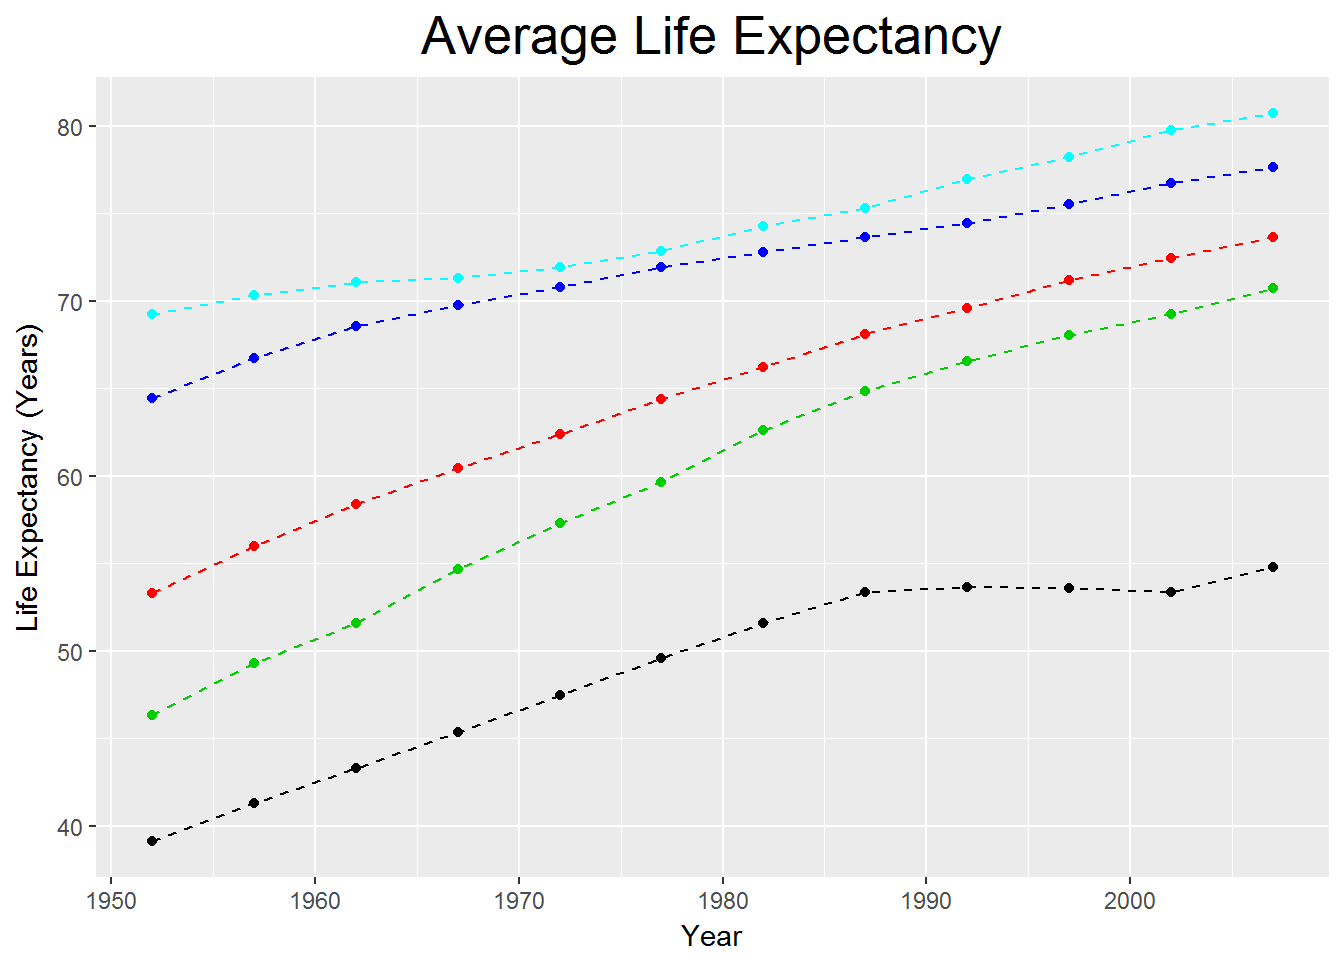
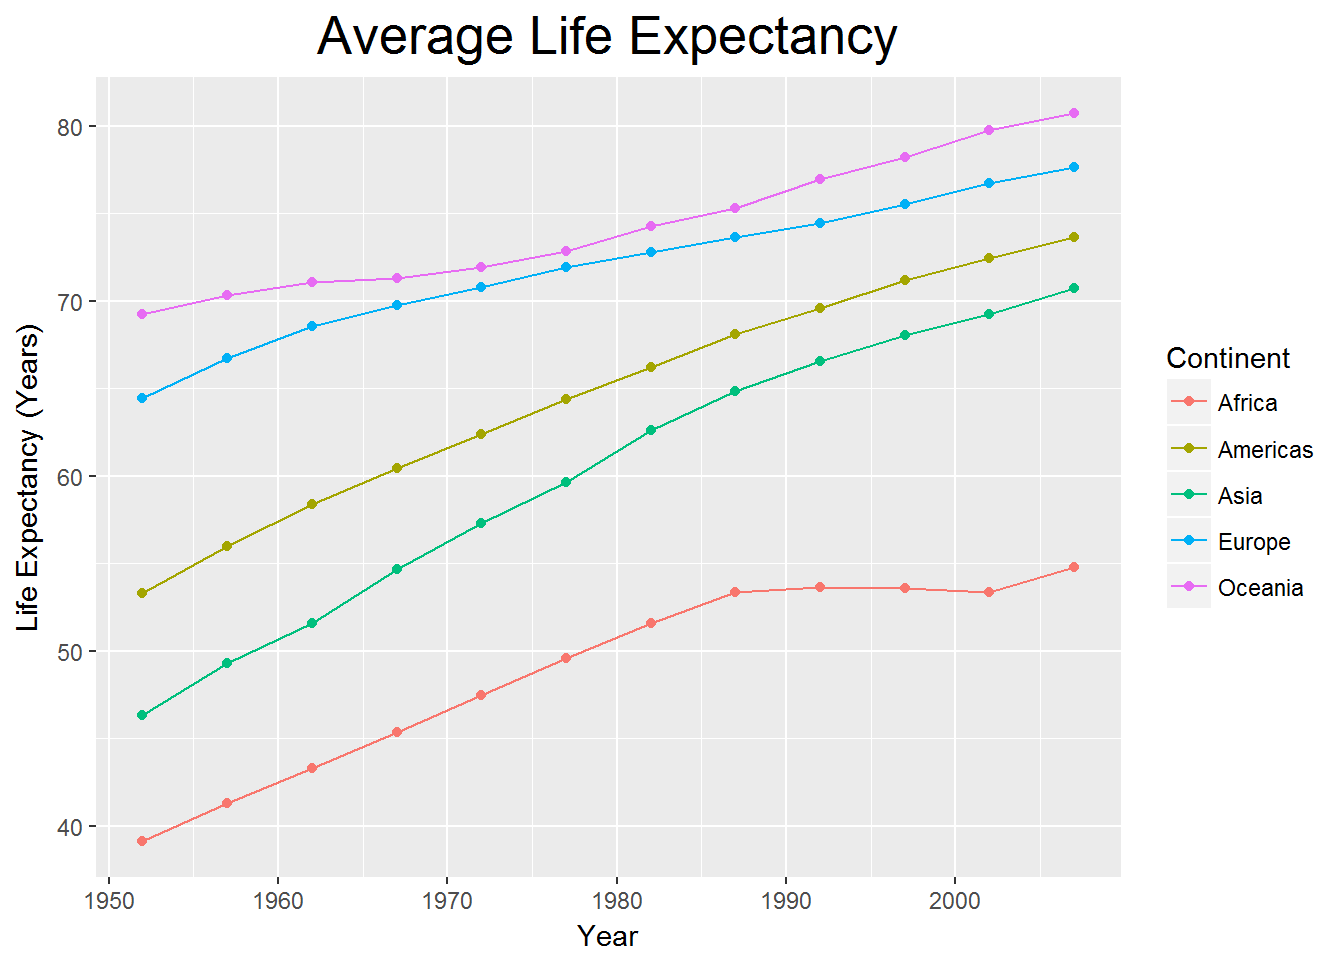
UPDATE IWA

diff --git a/Interactive_Web_App.html b/Interactive_Web_App.html
@@ -317,6 +317,7 @@ library(readr)
 library(stats)
 library(knitr)
 library(ggplot2)
+library(tidyr)
 gapminder=read.csv(&quot;http://bioconnector.org/data/gapminder.csv&quot;)
 colnames(gapminder)=c(&quot;Country&quot;,&quot;Continent&quot;,&quot;Year&quot;,&quot;Life.Expectancy&quot;,&quot;Population&quot;,&quot;GDP.per.Capita&quot;)</code></pre>
 <div id="how-many-unique-countries-are-represented-per-continent" class="section level2">
@@ -370,40 +371,16 @@ le=data.frame(t(le))
 Year=seq(from=1952,to=2007,by=5)
 le=cbind(Year,le)
 row.names(le)=1:12
-p=ggplot(data=le,aes())+
-  geom_point(mapping=aes(Year,Africa),color=1)+
-  geom_line(mapping=aes(Year,Africa),color=1,linetype=&quot;dashed&quot;)+
-  geom_point(mapping=aes(Year,Americas),color=2)+
-  geom_line(mapping=aes(Year,Americas),color=2,linetype=&quot;dashed&quot;)+
-  geom_point(mapping=aes(Year,Asia),color=3)+
-  geom_line(mapping=aes(Year,Asia),color=3,linetype=&quot;dashed&quot;)+
-  geom_point(mapping=aes(Year,Europe),color=4)+
-  geom_line(mapping=aes(Year,Europe),color=4,linetype=&quot;dashed&quot;)+
-  geom_point(mapping=aes(Year,Oceania),color=5)+
-  geom_line(mapping=aes(Year,Oceania),color=5,linetype=&quot;dashed&quot;)+
+le=gather(data=le,Continent,Average.Life.Expectancy,-Year)
+p=ggplot(data=le,aes(x=Year,y=Average.Life.Expectancy,color=Continent))+
+  geom_point()+
+  geom_line()+
   ggtitle(&quot;Average Life Expectancy&quot;)+
   xlab(&quot;Year&quot;)+
   ylab(&quot;Life Expectancy (Years)&quot;)+
   theme(plot.title=element_text(size=20,hjust=0.5))
 p</code></pre>
 <p><img src="Interactive_Web_App_files/figure-html/V2-1.png" width="672" style="display: block; margin: auto;" /></p>
-<pre class="r"><code>le=tapply(gapminder$Life.Expectancy,list(gapminder$Continent,gapminder$Year),mean)
-le=data.frame(t(le))
-Mean.Life.Expectancy=c(le$Africa,le$Americas,le$Asia,le$Europe,le$Oceania)
-Continent=rep(c(&quot;Africa&quot;,&quot;Americas&quot;,&quot;Asia&quot;,&quot;Europe&quot;,&quot;Ocenia&quot;),each=12)
-Year=rep(seq(from=1952,to=2007,by=5),5)
-le=data.frame(cbind(Continent,Year,Mean.Life.Expectancy))
-le$Continent=ordered(le$Continent)
-le$Year=as.numeric(as.character(le$Year))
-le$Mean.Life.Expectancy=as.numeric(as.character(le$Mean.Life.Expectancy))
-q=ggplot(data=le,mapping=aes(Year,Mean.Life.Expectancy))+
-  geom_point()+
-  ggtitle(&quot;Average Life Expectancy&quot;)+
-  xlab(&quot;Year&quot;)+
-  ylab(&quot;Life Expectancy (Years)&quot;)+
-  theme(plot.title=element_text(size=20,hjust=0.5))
-q</code></pre>
-<p><img src="Interactive_Web_App_files/figure-html/V2-2.png" width="672" style="display: block; margin: auto;" /></p>
 <div id="life-expectancy-for-every-countries-in-americas" class="section level3">
 <h3>2.1 Life Expectancy for Every Countries in Americas</h3>
 <pre class="r"><code>le.Americas=gapminder%&gt;%filter(Continent==&quot;Americas&quot;)
